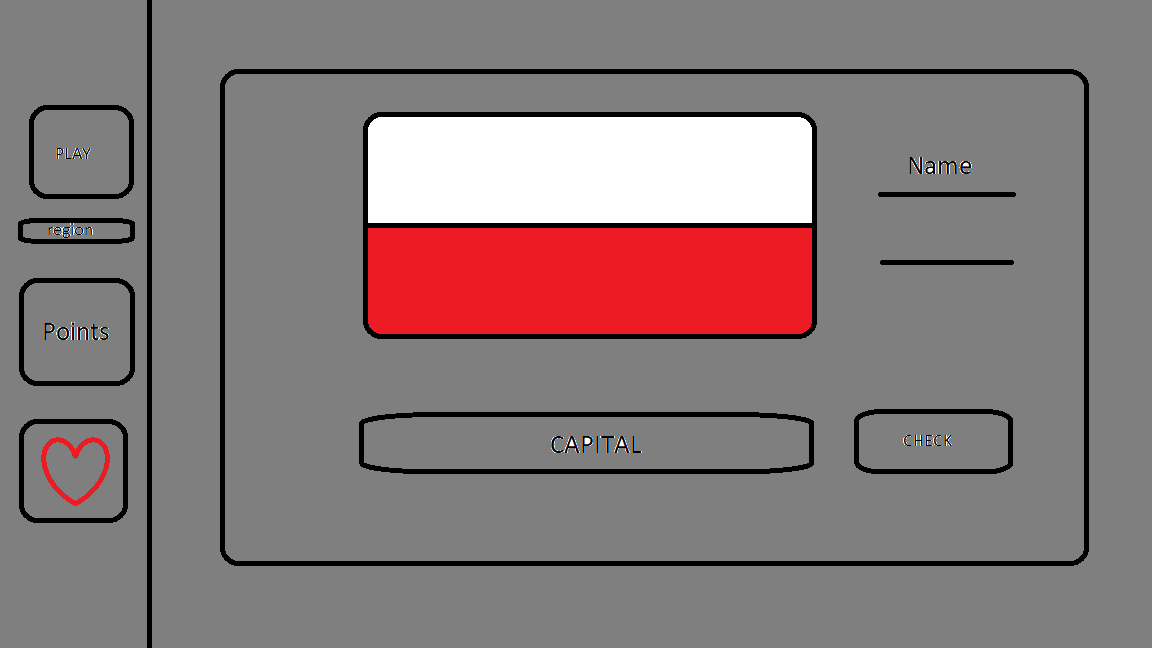
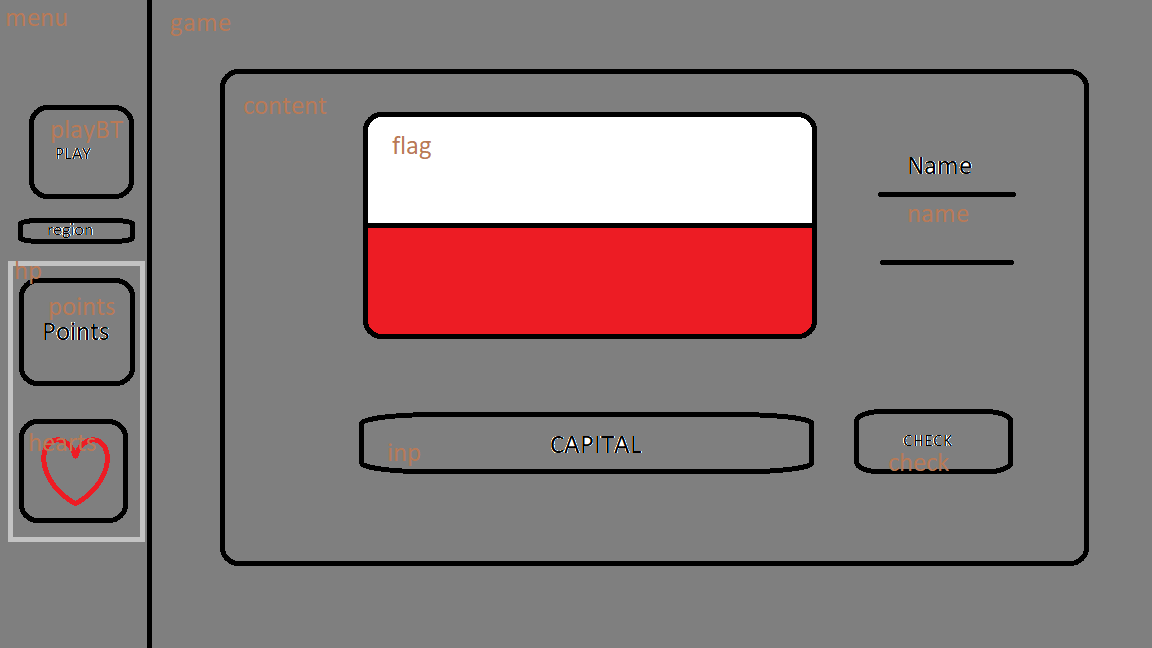
game design

diff --git a/app.js b/app.js
@@ -1,0 +1,38 @@
+var jsonc = []
+async function getData(){
+    const datac = await fetch("https://restcountries.com/v2/all")
+    jsonc = await datac.json()
+}
+getData()
+function random(){
+    max=jsonc.length-1
+    return Math.floor(Math.random() * max)
+}
+function countries(){
+    var i = random()
+    console.log(jsonc[i].capital)
+    //div
+    const div = document.createElement("div")
+    div.setAttribute("id","content")
+    //flag
+    const flag = document.createElement("img")
+    flag.setAttribute("id","flag")
+    flag.src = jsonc[i].flags.svg
+    //name
+    const name = document.createElement("h1")
+    name.setAttribute("id","name")
+    name.innerHTML = jsonc[i].name
+    //input
+    const input = document.createElement("input")
+    input.setAttribute("id","inp")
+    //button
+    const button = document.createElement("button")
+    button.innerHTML = "Check"
+    button.setAttribute("id","check")
+
+    div.appendChild(flag)
+    div.appendChild(name)
+    div.appendChild(input)
+    div.appendChild(button)
+    document.getElementById("game").appendChild(div)
+}

diff --git a/style.css b/style.css
@@ -44,3 +44,46 @@ body{
     
     background-color: aliceblue;
 }
+
+#game{
+    padding: 50px;
+}
+#content{
+    width: 100%-50px;
+    height: 613px;
+    padding: 25px;
+    border: tomato solid 2px;
+    border-radius: 45px;
+    
+    display: grid;
+    grid-template-columns: 70% 30%;
+    grid-template-rows: 400px 213px;
+    grid-template-areas: "flag name" "input check";
+}
+
+#flag{
+    height: 300px;
+    align-self: center;
+    justify-self: center;
+}
+#name{
+    text-align: center;
+    align-self: center;
+}
+#inp{
+    align-self: center;
+    justify-self: center;
+    height: 80px;
+    width: 400px;
+    border-radius: 100px;
+    text-align: center;
+    font-size: 300%;
+}
+#check{
+    align-self: center;
+    justify-self: center;
+    height: 80px;
+    width: 200px;
+    border-radius: 100px;
+    font-size: 200%;
+}

diff --git a/index.html b/index.html
@@ -7,15 +7,20 @@
 </head>
 <body>
     <div id="menu">
-        <button id="playBT">
+        <button id="playBT" onclick="countries()">
             Play
         </button>
+
+
+
         <div id="hp">
             <h1 id="points">0</h1>
-            <h1 id="hearts">❤</h1>
+            <h1 id="hearts">❤ ❤ ❤</h1>
         </div>
     </div>
+
     <div id="game">
+
 
     </div>
     <script src="app.js"></script>
